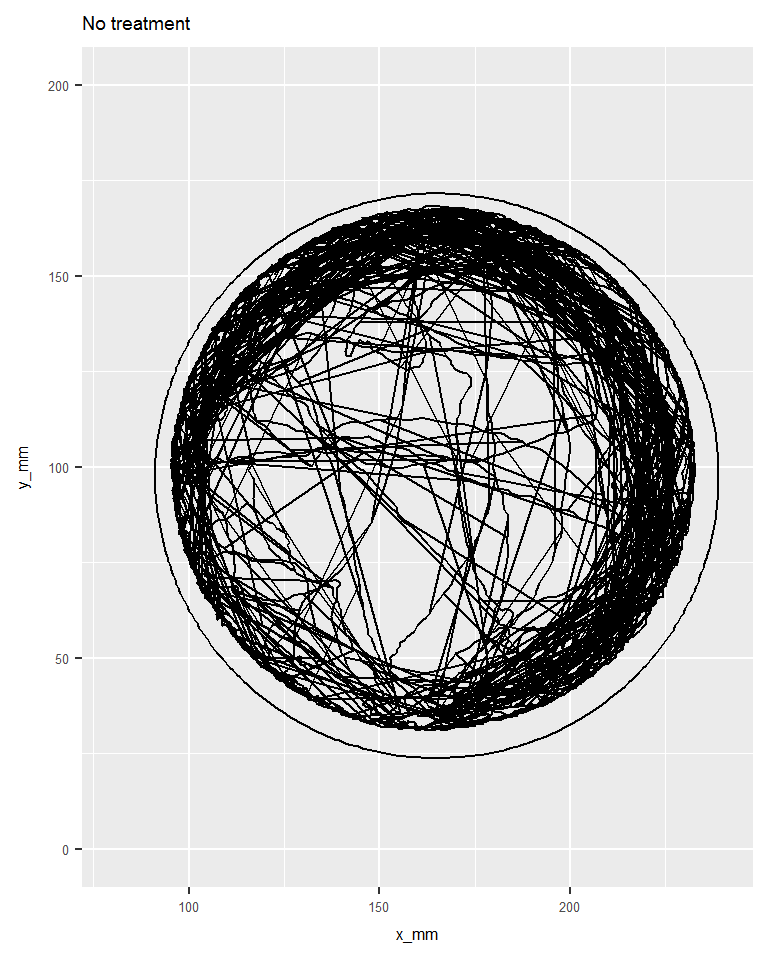
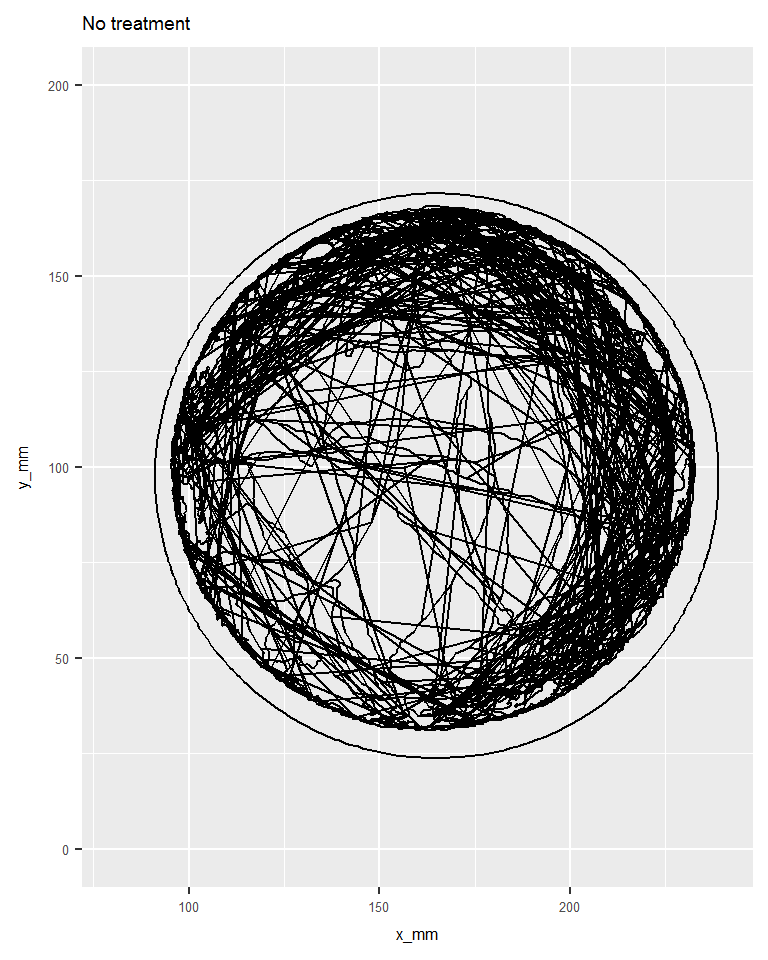
Got rid of unnecessary messages clusttering up the html file.
Also changed the theme of plots to bw.

Changed region(s): [[0.2188, 0.2188, 0.9062, 0.75], [0.8125, 0.625, 0.8438, 0.6562], [0.625, 0.2188, 0.6562, 0.25]]

diff --git a/docs/overview.html b/docs/overview.html
@@ -328,24 +328,8 @@ div.section {
 <p>What can we say about a bee’s movement throughout this experiment? We can say that the bee spent more time at the edges of the arena and that generally when the bee traversed the center it did so in a straight line. If we break the path of the bee up into smaller segments we might be able to learn more, but this could take quite a bit of time to do.</p>
 <p>By using the ML method in this project, we automated this process and discovered possible categories of bee behaviour, as well as information on how the bees transition between these behaviours thoughout the experiment.</p>
 <p>To demonstrate this idea, here are plots for 5 possible types of behaviour that we discovered if we chopped the entire bee’s path up into 150mm lengths:</p>
-<pre class="r"><code>library(data.table)</code></pre>
-<pre><code>## Warning: package &#39;data.table&#39; was built under R version 3.4.4</code></pre>
-<pre><code>## 
-## Attaching package: &#39;data.table&#39;</code></pre>
-<pre><code>## The following objects are masked from &#39;package:dplyr&#39;:
-## 
-##     between, first, last</code></pre>
-<pre class="r"><code>df &lt;- fread(here::here(&quot;data/length150/segment_features.csv&quot;),
-            stringsAsFactors = TRUE)
-df_xy &lt;- read.csv(here::here(&quot;data/length150/segment_xys.csv&quot;))
-set.seed(1) #the following code take a random sample of the segments
-scaled_df &lt;- scale(df[, MedianDistanceFromCentre:SumAbsoluteAngles])
-km.out &lt;- kmeans(x = scaled_df, centers = 5, nstart = 20)
-df[, cluster := km.out$cluster]</code></pre>
-<pre class="r"><code>source(&quot;https://raw.githubusercontent.com/MarkPlatts/Bee_Clustering_Website/master/code/R/helper_functions.R&quot;)
-plot_cluster(features = df, xy = as.data.table(df_xy), kmean_mod = km.out, nSegments = 5)</code></pre>
-<pre><code>## Loading required package: grid</code></pre>
 <p><img src="overview_files/figure-html/unnamed-chunk-4-1.png" width="672" /></p>
+<p>By looking at these samples we can now start to form hypothesis for how the bee is behaving at different points within the experiments.</p>
 <p>take a look at these plots showing how a bee moved around in parts of three experiments:</p>
 <p><img src="overview_files/figure-html/unnamed-chunk-5-1.png" width="192" /><img src="overview_files/figure-html/unnamed-chunk-5-2.png" width="192" /><img src="overview_files/figure-html/unnamed-chunk-5-3.png" width="192" /></p>
 <p>Figure 3: The full path of a bee in a single experiment, treated with saline.</p>
